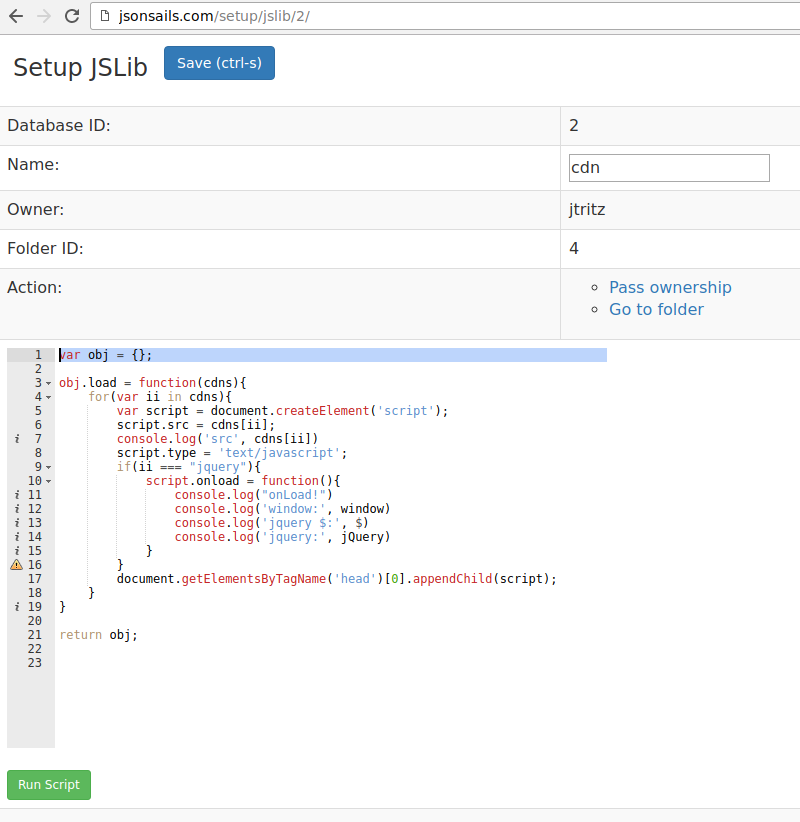
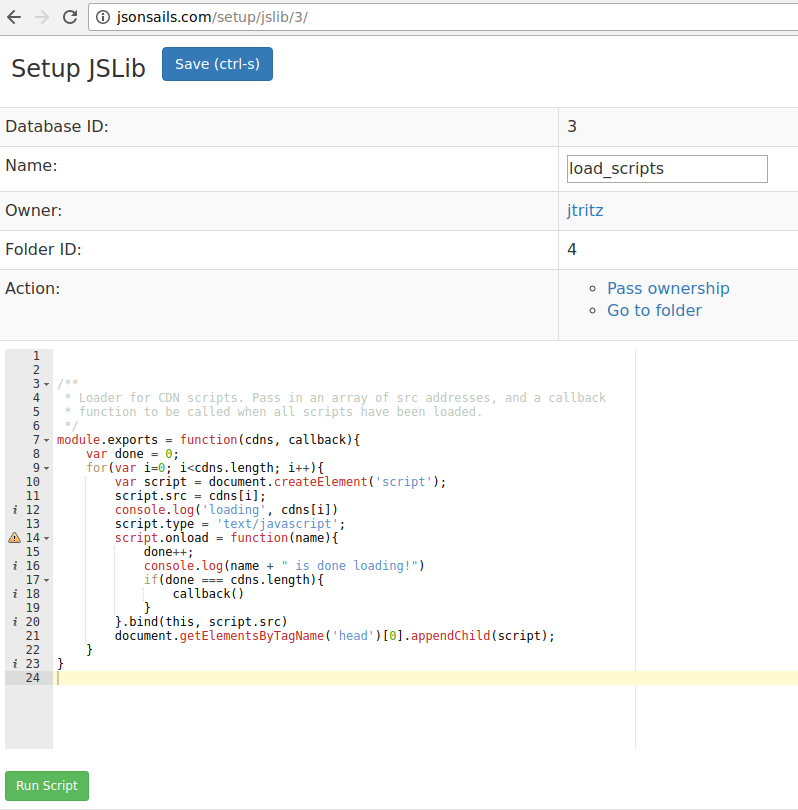
updates for ufile and sfile script

diff --git a/source/examples/mvc_module.rst b/source/examples/mvc_module.rst
@@ -11,7 +11,7 @@ Used to load jquery and prototype from CDN in this example
 
 .. code-block:: javascript
 
-  return function(cdns, callback){
+  module.exports = function(cdns, callback){
       var done = 0;
       for(var i=0; i<cdns.length; i++){
           var script = document.createElement('script');
@@ -37,44 +37,42 @@ a JSLib so that the CDN method will expose the classes to the init method.
 
 .. code-block:: javascript
 
-  return function(){
-    var MyModel = Class.create();
+  var MyModel = Class.create();
 
-    // MODEL CODE
-    MyModel.prototype={
-    
-      initialize: function(param) // pass in nts model
-      {
-        this.param 
-      },
-    
-      say_hello: function(name){
-        alert('hi '+name) 
-      } 
-   
-    }
-
-    var MyView = Class.create();
-
-    // VIEW CODE
-    MyView.prototype={
-    
-      initialize: function(model) // pass in nts model
-      {
-        this.model = model 
-      },
-    
-      show_hello: function(name){
-        console.log('hi '+name) 
-      } 
-   
-    }
-    
-    var objs = {}
-    objs.Model = MyModel
-    objs.View = MyQuestion
-    return objs
+  // MODEL CODE
+  MyModel.prototype={
+  
+    initialize: function(param) // pass in nts model
+    {
+      this.param 
+    },
+  
+    say_hello: function(name){
+      alert('hi '+name) 
+    } 
+ 
   }
+
+  var MyView = Class.create();
+
+  // VIEW CODE
+  MyView.prototype={
+  
+    initialize: function(model) // pass in nts model
+    {
+      this.model = model 
+    },
+  
+    show_hello: function(name){
+      console.log('hi '+name) 
+    } 
+ 
+  }
+  
+  var objs = {}
+  objs.Model = MyModel
+  objs.View = MyQuestion
+  module.exports = objs
 
 Module JS
 ^^^^^^^^^
@@ -97,8 +95,8 @@ This is the code in the Module JS tab, which ties it all together.
       console.log('prototype', Class)
       var data = {}
       var objs = js.jslib.objs
-      MyModel = objs.MyModel(data)
-      MyView = objs.MyView() 
+      MyModel = objs.Model(data)
+      MyView = objs.View() 
       init_module([])
 
       // HTML binding    

diff --git a/source/scripting/ufile_script.rst b/source/scripting/ufile_script.rst
@@ -15,6 +15,14 @@ replaces the value in the Module JS and Module HTML contexts.
     js.collection       // {username: value} (immutable)
     js.jslib.alias      // jslib included under alias
 
-    // set hook to return value that is sent when calling js.ufile.alias.set in Module JS
-    js.set = function(obj){ return obj.prop }
+    module.exports = {
+      load: function(var){// can return anything}
+      save: function(var){// can return anything}
+      serialize: function(var){ // must return string!}
+      deserialize: function(string){// can return anything} 
+    }
+
+    When loading with js.ufile.alias.val() execution order is 1) deserialize, then 2) load
+
+    When you persist using js.ufile.set('val') execution order is 1) save, then 2) serialize
 

diff --git a/source/concepts/ufiles.rst b/source/concepts/ufiles.rst
@@ -40,8 +40,13 @@ Consists of
 
 * Script (Javascript)
 * JSLibs (JavaScript libraries)
-  
-If UFile script exists then its return value is substituted as the UFile value
-such that the actual persisted values can derive a return value in the script.
+ 
+If the ufile script does not exist then the raw value of the ufile is returned
+when the ufile value is accessed. 
+
+If UFile script does exist then module.exports must define load and save methods,
+and optionally it may also define serialize and deserialize methods. These methods
+will determine how the value is transformed when the ufile value is loaded and saved.
+
 UFile script may utilize JSLibs.
 

diff --git a/source/scripting/quick_reference.rst b/source/scripting/quick_reference.rst
@@ -65,7 +65,13 @@ UFile script
     js.val('username')
     js.collection
     js.jslib.alias
-    js.set = function(obj){ return obj.prop }
+    module.exports = {
+      load: function(var){// can return anything}
+      save: function(var){// can return anything}
+      serialize: function(var){ // must return string!}
+      deserialize: function(string){// can return anything} 
+    }
+
 
 UFile values format
 ^^^^^^^^^^^^^^^^^^^

diff --git a/source/scripting/jslib_script.rst b/source/scripting/jslib_script.rst
@@ -15,7 +15,7 @@ Script example
 
     var obj = {}; 
     obj.say_hello = function(name){ alert('hello ' + name); }
-    return obj
+    module.exports = obj
 
 Screenshot
 ^^^^^^^^^^
